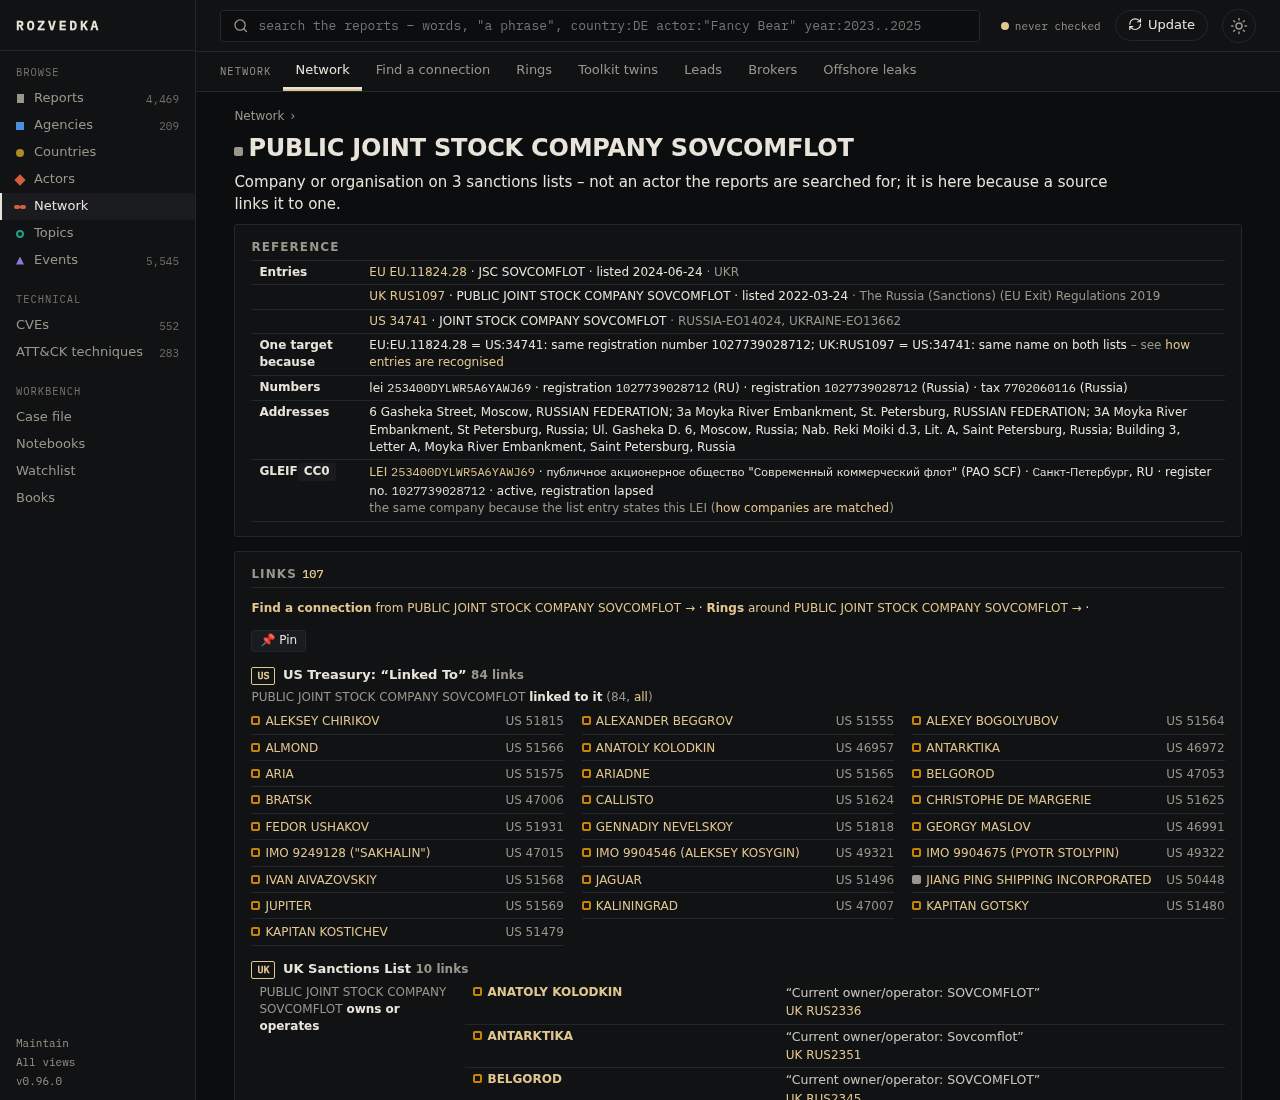
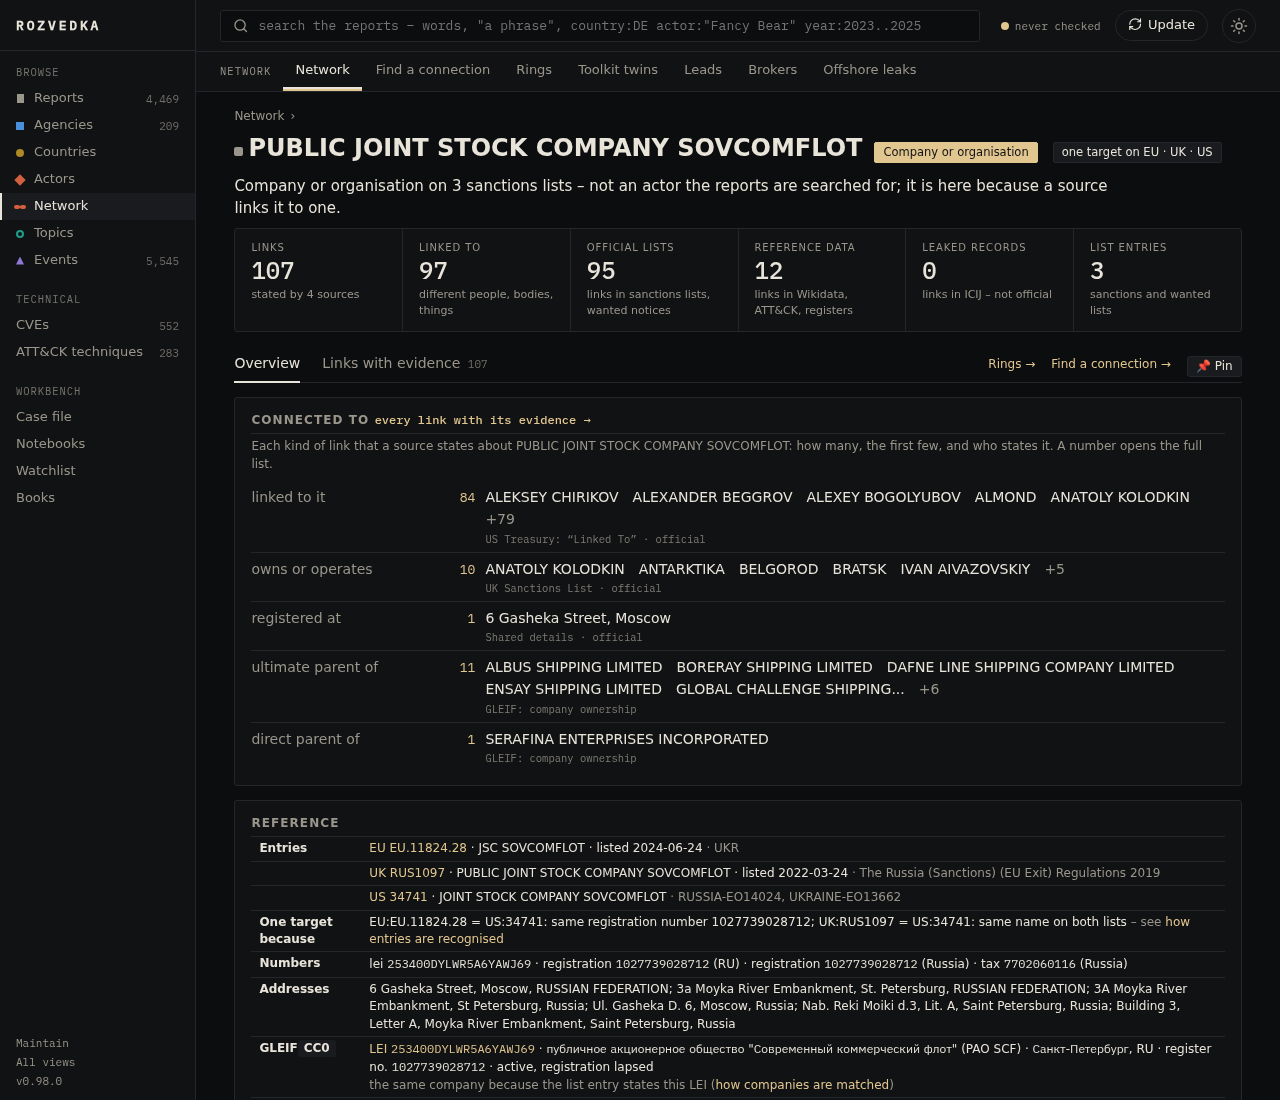
feat: entity pages in the shape of an actor's page – key numbers, tabs, Connected to (0.99.0)

Changed region(s): [[0.1875, 0.2164, 0.9688, 1.0], [0.1875, 0.1236, 0.9375, 0.2782]]

diff --git a/rozvedka/templates/entity.html b/rozvedka/templates/entity.html
@@ -1,9 +1,18 @@
 {% extends "base.html" %}
 {% from "_network.html" import network %}
-{% from "_ties.html" import pin %}
+{% from "_ties.html" import pin, connected %}
 {% block title %}{{ e.label }} · Network · Rozvedka{% endblock %}
 {% block main %}
-<h1 class="page-h"><i class="kdot kind-{{ e.kind }}"></i>{{ e.label }}</h1>
+{% set origins = {'us': 'US sanctions list', 'uk': 'UK sanctions list', 'eu': 'EU sanctions list', 'un': 'UN sanctions list',
+                  'fbi': 'FBI wanted notice', 'eumw': 'Europe’s Most Wanted', 'wanted': 'wanted notice', 'ids': 'shared detail of list entries',
+                  'wikidata': 'Wikidata', 'attack': 'MITRE ATT&CK', 'misp': 'MISP galaxy', 'events': 'event',
+                  'gleif': 'GLEIF register', 'icij': 'ICIJ Offshore Leaks', 'publishers': 'publisher profiles'} %}
+<header class="actor-head">
+  <h1><i class="kdot kind-{{ e.kind }}"></i>{{ e.label }}</h1>
+  <span class="topic-chip on">{{ e.kind_name }}</span>
+  {% if e.data.members and e.data.members|length > 1 %}<span class="topic-chip">one target on {{ e.data.members|map(attribute='list')|unique|join(' · ') }}</span>
+  {% elif origins.get(e.origin) %}<span class="topic-chip">{{ origins[e.origin] }}</span>{% endif %}
+</header>
 {% set d = e.data %}
 {% if e.origin == 'ids' %}
 <p class="lede">{{ e.kind_name }} given by {{ d.given_by }} entries of the sanctions lists that describe different targets – a detail they
@@ -31,10 +40,29 @@
   not an actor the reports are searched for; it is here because a source links it to one.{% if d.wanted %} A wanted notice states an
   allegation, not a conviction.{% endif %}</p>
 {% endif %}
-<section class="viz-card facts">
-  <h2 class="viz-title">Reference</h2>
-  <table class="rp-topics small">
-    {% if d.members %}{% for m in d.members %}<tr><th>{{ 'Entries' if loop.first }}</th><td><a href="{{ m.url }}" rel="noopener">{{ m.list }}{% if m.list not in ('FBI', 'EUMW') %} {{ m.ref }}{% endif %}</a> · {{ m.name }}{% if m.date %} · {{ 'published' if m.list in ('FBI', 'EUMW') else 'listed' }} {{ m.date }}{% endif %}{% if m.programme %} <span class="muted">· {{ m.programme }}</span>{% endif %}</td></tr>{% endfor %}
+{% set entries = d.members|length if d.members else (1 if d.list else 0) %}
+<section class="kpis" aria-label="{{ e.label }} in numbers">
+  <a href="{{ p.link }}"><span>Links</span><b>{{ p.total|num }}</b><em>stated by {{ p.layers|length }} source{{ 's' if p.layers|length != 1 }}</em></a>
+  <a href="{{ p.link }}"><span>Linked to</span><b>{{ p.others|num }}</b><em>different people, bodies, things</em></a>
+  <a href="{{ p.groups.official.link }}"><span>Official lists</span><b>{{ p.groups.official.n|num }}</b><em>links in sanctions lists, wanted notices</em></a>
+  <a href="{{ p.groups.reference.link }}"><span>Reference data</span><b>{{ p.groups.reference.n|num }}</b><em>links in Wikidata, ATT&amp;CK, registers</em></a>
+  <a href="{{ p.groups.leaks.link }}"><span>Leaked records</span><b>{{ p.groups.leaks.n|num }}</b><em>links in ICIJ – not official</em></a>
+  <a href="{{ '#reference' if entries else '/actors/sanctions' }}"><span>List entries</span><b>{{ entries }}</b><em>{{ 'sanctions and wanted lists' if entries else 'on no sanctions or wanted list' }}</em></a>
+</section>
+<nav class="lens" data-tabs aria-label="Views of {{ e.label }}">
+  <a href="#tab-overview">Overview</a>
+  <a href="#tab-links">Links with evidence <span class="lens-n">{{ p.total|num }}</span></a>
+  <span class="lens-out"><a href="/graph/rings?e={{ e.id|urlencode }}">Rings →</a> <a href="/graph/path?a={{ e.id|urlencode }}">Find a connection →</a> {{ pin(e.id, request.url.path) }}</span>
+</nav>
+{% if groups %}
+<section class="viz-card" id="connected" data-tab="overview">
+  <h2 class="viz-title">Connected to <span class="muted small"><a href="#tab-links">every link with its evidence →</a></span></h2>
+  <p class="muted small viz-sub">Each kind of link that a source states about {{ e.label }}: how many, the first few, and who states it.
+    A number opens the full list.</p>
+  {{ connected(groups, e.label) }}
+</section>
+{% endif %}
+{% set ref_rows %}    {% if d.members %}{% for m in d.members %}<tr><th>{{ 'Entries' if loop.first }}</th><td><a href="{{ m.url }}" rel="noopener">{{ m.list }}{% if m.list not in ('FBI', 'EUMW') %} {{ m.ref }}{% endif %}</a> · {{ m.name }}{% if m.date %} · {{ 'published' if m.list in ('FBI', 'EUMW') else 'listed' }} {{ m.date }}{% endif %}{% if m.programme %} <span class="muted">· {{ m.programme }}</span>{% endif %}</td></tr>{% endfor %}
       <tr><th>One target because</th><td>{% for a, b, why in d.why %}{{ a }} = {{ b }}: {{ why }}{{ '; ' if not loop.last }}{% endfor %}
         <span class="muted small">– see <a href="/graph">how entries are recognised</a></span></td></tr>
     {% elif d.list in ('FBI', 'EUMW') %}{% if d.names|length > 1 %}<tr><th>Other names</th><td>{{ d.names[1:]|join(' · ') }}</td></tr>{% endif %}
@@ -56,13 +84,20 @@
     {% if d.description %}<tr><th>Description</th><td>{{ d.description }}</td></tr>{% endif %}
     {% if d.attack %}<tr><th>ATT&amp;CK</th><td><a href="{{ d.url }}" rel="noopener">{{ d.attack }}</a>{% if d.aliases %} · also {{ d.aliases|join(', ') }}{% endif %}{% if d.first %} · active {{ d.first }} – {{ d.last }}{% endif %}</td></tr>{% endif %}
     {% if d.publisher and d.url %}<tr><th>Wikidata</th><td><a href="{{ d.url }}" rel="noopener">{{ e.id }}</a></td></tr>{% endif %}
-    {% if e.origin == 'wikidata' %}<tr><th>Wikidata</th><td><a href="{{ d.url }}" rel="noopener">{{ e.id }}</a>{% if d.wikipedia %} · <a href="{{ d.wikipedia }}" rel="noopener">Wikipedia</a>{% endif %}</td></tr>{% endif %}
+    {% if e.origin == 'wikidata' %}<tr><th>Wikidata</th><td><a href="{{ d.url }}" rel="noopener">{{ e.id }}</a>{% if d.wikipedia %} · <a href="{{ d.wikipedia }}" rel="noopener">Wikipedia</a>{% endif %}</td></tr>{% endif %}{% endset %}
+{% if "<tr" in ref_rows %}
+<section class="viz-card facts" id="reference" data-tab="overview">
+  <h2 class="viz-title">Reference</h2>
+  <table class="rp-topics small">
+    {{ ref_rows }}
   </table>
 </section>
-<section class="viz-card" id="network">
-  <h2 class="viz-title">Links <span class="muted small"><a href="/graph/ties?entity={{ e.id }}">{{ groups|sum(attribute='n') }}</a></span></h2>
-  <p class="small"><a href="/graph/path?a={{ e.id }}"><b>Find a connection</b> from {{ e.label }} →</a>
-    · <a href="/graph/rings?e={{ e.id|urlencode }}"><b>Rings</b> around {{ e.label }} →</a> · {{ pin(e.id, request.url.path) }}</p>
+{% endif %}
+<section class="viz-card" id="network" data-tab="links">
+  <h2 class="viz-title">Links <span class="muted small"><a href="{{ p.link }}">all {{ p.total|num }} in one list →</a></span></h2>
+  <p class="muted small viz-sub">Source by source, each link with the sentence or entry that states it; the first {{ per_group }} of a kind, the
+    rest behind “all”. How it is built: <a href="/graph">Network</a>.</p>
   {{ network(groups, e.label) }}
+  {% if not groups %}<p class="muted small">No source links it to anything.</p>{% endif %}
 </section>
 {% endblock %}

diff --git a/rozvedka/ties.py b/rozvedka/ties.py
@@ -1075,10 +1075,25 @@ def layer_counts(id_: str) -> list[dict]:
             for k, v in LAYERS.items() if got.get(k)]
 
 
+def profile(id_: str) -> dict:
+    """An entity's links in numbers, each with the list it counts: all of them, the different things at the other end,
+    and how many each group of sources states (official lists, reference data, leaked records, the reports)."""
+    by = {l["layer"]: l for l in layer_counts(id_)}
+    groups = [{"key": g, "name": name, "n": sum(l["n"] for l in by.values() if l["group"] == g),
+               "layers": [l["name"] for l in by.values() if l["group"] == g], "link": ties_url(entity=id_, group=g)}
+              for g, name in GROUPS.items()]
+    return {"total": sum(l["n"] for l in by.values()), "others": others(entity=id_) if by else 0, "layers": list(by.values()),
+            "groups": {g["key"]: g for g in groups}, "link": ties_url(entity=id_)}
+
+
 def figures() -> list[tuple[str, int, str]]:
     """(label, number, link) of the Network page's numbers, for tools/check_links.py."""
     s = summary()
     out = [(f"layer {l['key']}", l["ties"], l["link"]) for l in s["layers"] if l["ties"]]
+    for r in ranking("official", "", 3):                    # the key numbers of three sample entity pages
+        p = profile(r["id"])
+        out += [(f"entity {r['label']}", p["total"], p["link"]), (f"entity {r['label']} (others)", -p["others"], p["link"])]
+        out += [(f"entity {r['label']} {g['key']}", g["n"], g["link"]) for g in p["groups"].values() if g["n"]]
     for r in crossroads(10):
         out.append((f"crossroads {r['label']}", r["n"], r["link"]))
     for r in ranking("official", "", 10):

diff --git a/tests/test_ties.py b/tests/test_ties.py
@@ -178,7 +178,18 @@ def test_pages(library):
         assert "<b>5</b> links with <b>5</b> others" in page and "Linked To: HIZBALLAH" in page     # 2 of them wanted notices
         assert client.get("/graph/ties?layer=uk").status_code == 200
         assert "Ivan PETROV is a director" in client.get("/graph/ties?q=Rostec").text
-        assert "Mimikatz" in client.get("/entity/S0002").text
+        page = client.get("/entity/S0002").text
+        assert "Mimikatz" in page
+        # the entity's page in the common shape: key numbers that open their lists, tabs, "Connected to", links with evidence
+        p = ties.profile("S0002")
+        assert p["total"] == ties.count(entity="S0002") > 0 and p["others"] == ties.others(entity="S0002")
+        assert sum(g["n"] for g in p["groups"].values()) == p["total"]
+        assert all(g["n"] == ties.count(entity="S0002", group=g["key"]) for g in p["groups"].values())
+        assert f'<a href="/graph/ties?entity=S0002"><span>Links</span><b>{p["total"]}</b>' in page
+        assert 'href="/graph/ties?entity=S0002&group=reference"><span>Reference data</span>' in page.replace("&amp;", "&")
+        assert 'data-tabs' in page and 'id="connected" data-tab="overview"' in page and 'id="network" data-tab="links"' in page
+        assert "on no sanctions or wanted list" in page and "MITRE ATT&amp;CK" in page
+        assert ties.profile("NOPE")["total"] == 0
         r = client.get("/entity/Q2", follow_redirects=False)
         assert r.status_code == 307 and r.headers["location"] == "/actors/Q2#network"
         actor = client.get("/actors/Q2").text

diff --git a/rozvedka/routes/graph.py b/rozvedka/routes/graph.py
@@ -38,7 +38,7 @@ def entity_page(request: Request, id_: str):
         raise HTTPException(404, "no such entity in the network")
     if e["actor"]:
         return RedirectResponse("/actors/" + quote(e["actor"], safe="") + "#network", status_code=307)
-    return tpl.TemplateResponse(request, "entity.html", {"e": e, "groups": ties.neighbours(id_),
+    return tpl.TemplateResponse(request, "entity.html", {"e": e, "groups": ties.neighbours(id_), "p": ties.profile(id_), "per_group": ties.PER_GROUP,
                                                          "lists": {**sanctions.LISTS, **wanted.SOURCES}})
 
 

diff --git a/rozvedka/__init__.py b/rozvedka/__init__.py
@@ -5,7 +5,7 @@ from pathlib import Path
 
 # Single source of the release version (Semantic Versioning, https://semver.org).
 # Do not edit by hand: run `python3 tools/bump_version.py patch|minor|major` (see CHANGELOG.md, "Versioning").
-__version__ = "0.98.0"
+__version__ = "0.99.0"
 
 
 @lru_cache(maxsize=1)

diff --git a/CHANGELOG.md b/CHANGELOG.md
@@ -27,6 +27,19 @@ From 0.9.1 on, the significance of a change decides which part of `MAJOR.MINOR.P
 
 ## [Unreleased]
 
+## [0.99.0] – 2026-11-12
+
+### Added
+- **Entity pages in the shape of an actor's page** (`/entity/…` – sanctions entries, wanted people, companies, vessels,
+  malware, shared addresses): six key numbers (links, the different things they lead to, the links stated by official
+  lists, by reference data and by leaked records, list entries), then two tabs. *Overview* has the **Connected to**
+  block known from actors – each kind of link, how many, the first few at the other end and who states it – and the
+  reference facts; *Links with evidence* lists them source by source. The head says which lists one target is on.
+- `tools/check_links.py` compares the key numbers of three sample entity pages with the lists they open.
+
+### Changed
+- An entity without reference facts (a shared address) no longer shows an empty Reference card.
+
 ## [0.98.0] – 2026-11-12
 
 ### Added
@@ -2142,7 +2155,8 @@ From 0.9.1 on, the significance of a change decides which part of `MAJOR.MINOR.P
 - Crawler, polite downloader (robots.txt, per-host delay, PDF check, de-duplication) and FastAPI web portal.
 - systemd user units for the portal and a weekly update timer.
 
-[Unreleased]: https://github.com/iiogurt/Rozvedka/compare/v0.98.0...HEAD
+[Unreleased]: https://github.com/iiogurt/Rozvedka/compare/v0.99.0...HEAD
+[0.99.0]: https://github.com/iiogurt/Rozvedka/compare/v0.98.0...v0.99.0
 [0.98.0]: https://github.com/iiogurt/Rozvedka/compare/v0.97.0...v0.98.0
 [0.97.0]: https://github.com/iiogurt/Rozvedka/compare/v0.96.0...v0.97.0
 [0.96.0]: https://github.com/iiogurt/Rozvedka/compare/v0.95.0...v0.96.0

diff --git a/docs/ROADMAP.md b/docs/ROADMAP.md
@@ -269,7 +269,7 @@ Drafts of three screens are in `docs/design/` (an actor, the Reports list, a cou
 |---|---|---|
 | I1 | Menu by the things the library holds (reports, agencies, countries, actors, network, topics, events), new monochrome look in both themes | **done 0.95.0** |
 | I2 | One page shape for every thing: identity, six key numbers, then its views as tabs (overview, reports, relations, timeline, map) | **actors and reports done 0.96.0** (`static/tabs.js`); **countries and topics done 0.97.0**; **agencies done 0.98.0** (`/agency/<id>`; the credibility profile of a think tank stays on `/publisher/<id>`) |
-| I3 | One "Connected to" block: every link by kind, with count and source – actor and entity pages merged | **on the actor's Overview 0.96.0**; entity pages and the merge open |
+| I3 | One "Connected to" block: every link by kind, with count and source – actor and entity pages merged | **on the actor's Overview 0.96.0**; **entity pages done 0.99.0** – same head, key numbers, tabs and "Connected to" as an actor (an entity that is an actor opens the actor's page) |
 | I4 | Preview pane: a selected row shows the report with its passages and pages without leaving the list; keyboard moves | open |
 | I5 | Trail of hops and a scope (publisher kind, years, countries) kept between pages; jump-to-anything box | open |
 | I6 | Home page in the new look (the console banner goes) | open |

diff --git a/README.md b/README.md
@@ -614,7 +614,10 @@ as a name (“Rostec”, not “prosperity”), no names made only of generic wo
 
 - **Links** (`/graph/ties`): search any name across all layers, filter by layer and kind; every row with its evidence.
 - **Entity pages** (`/entity/…`) for what is not an actor: a sanctions entry with its programme and other names, a piece
-  of malware, a campaign, a Wikidata person – and its links.
+  of malware, a campaign, a Wikidata person. The page has the shape of an actor's: six key numbers (links, the different
+  things they lead to, how many of them official lists, reference data and leaked records state, list entries), then
+  *Overview* – the **Connected to** block (each kind of link, how many, the first few, who states it) and the reference
+  facts – and *Links with evidence*, source by source.
 - On the overview: the entities **most linked on the official lists** and those **where the layers meet** (links in three or
   more layers). Every number opens the list of links it counts (checked before each release).
 
